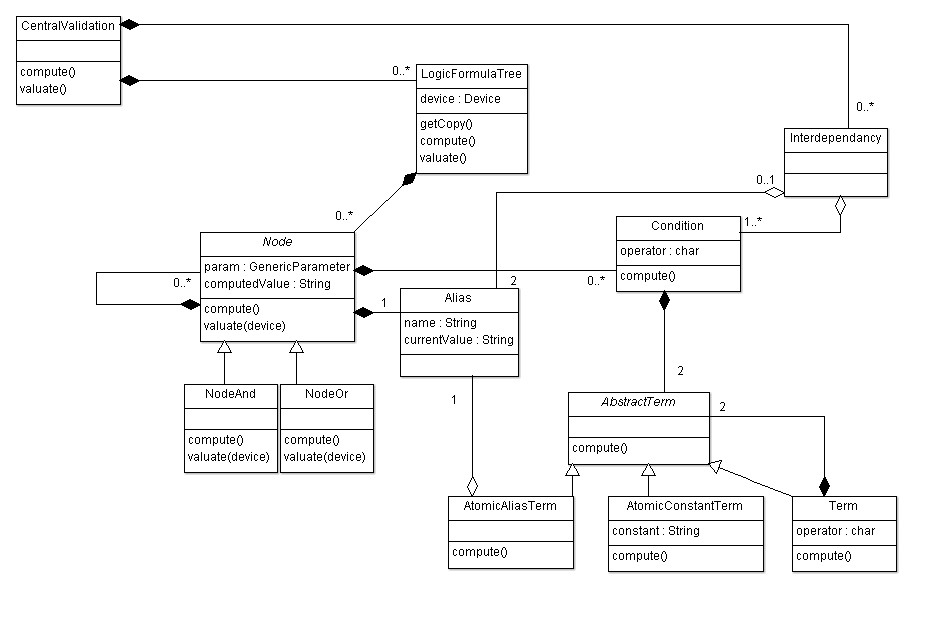
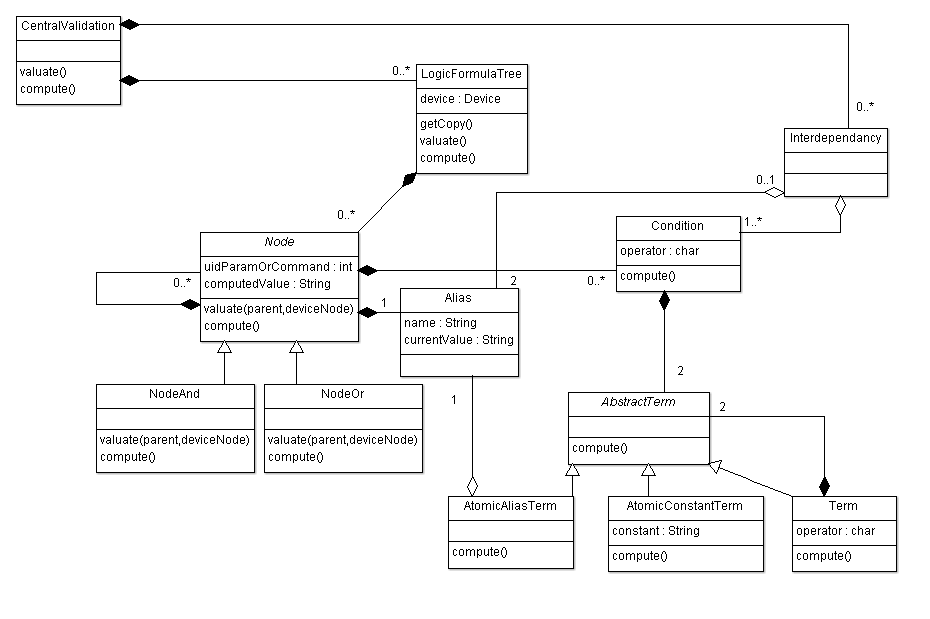
Avancée algo

diff --git a/IOSRef/Term.py b/IOSRef/Term.py
@@ -41,43 +41,96 @@ class SyntaxTerm:
                     self.addAtomicTerm(atomicTerm)
 
         from IOSReference import printLog
-        printLog("Created "+self.toString())
+        printLog("Created "+self.__str__())
 
     def addAtomicTerm(self, atomicTerm):
         if (isinstance(atomicTerm, AtomicTerm)):
             self.atomicTermList.append(atomicTerm)
 
-    def toString(self):
+    def __str__(self):
         return "SyntaxTerm [cardinalityMin="+str(self.cardinalityMin)+", cardinalityMax="+str(self.cardinalityMax)+", number_of_atomic_terms="+str(self.atomicTermList.__len__())+"]"
 
 
 
 class ListOptionItem:
     def __init__(self, xmlNode, value=None):
-        self.value = value
+        if xmlNode==None:
+            self.value = value
+        else:
+            self.value = xmlNode.nodeValue
+
+        from IOSReference import printLog
+        printLog("Created "+self.__str__())
+
+
+    def __str__(self):
+        return "ListOptionItem [value="+str(self.value)+"]"
+
+
 
 
 
 class CiscoParameter(AtomicTerm):
     def __init__(self, xmlNode, name=None, cardinalityMin=None, cardinalityMax=None, description=None, typeParameter=None, genericParameter=None):
-        self.name = name
-        self.cardinalityMin = cardinalityMin
-        self.cardinalityMax = cardinalityMax
-        self.description = description
-        self.typeParameter = typeParameter
-        self.genericParameter = genericParameter
         self.listOptionItemList = []
+
+        if xmlNode==None:
+            self.name = name
+            self.cardinalityMin = cardinalityMin
+            self.cardinalityMax = cardinalityMax
+            self.description = description
+            self.typeParameter = typeParameter
+            self.genericParameter = genericParameter
+        else:
+            self.name = xmlNode.attributes['name'].value
+            self.cardinalityMin = xmlNode.attributes['cardinalityMin'].value
+            self.cardinalityMax = xmlNode.attributes['cardinalityMax'].value
+            self.genericParameter = xmlNode.attributes['guid'].value
+            try:
+                self.description = xmlNode.attributes['description'].value
+                self.typeParameter = xmlNode.attributes['typeParameter'].value
+            except:
+                self.description = ""
+                self.typeParameter = ""
+
+            #load list option items
+            allListOptionItems = xmlNode.getElementsByTagName('ListOptionItem')
+            for node in allListOptionItems:
+                listOptionItem = ListOptionItem(node)
+                self.addListOptionItem(listOptionItem)
+
+        from IOSReference import printLog
+        printLog("Created "+self.__str__())
+
+
 
     def addListOptionItem(self, listOptionItem):
         if (isinstance(listOptionItem, ListOptionItem)):
             self.listOptionItemList.append(listOptionItem)
 
 
+    def __str__(self):
+        return "CiscoParameter [name='"+str(self.name)+"', cardinalityMin="+str(self.cardinalityMin)+", cardinalityMax="+str(self.cardinalityMax)+", description='"+str(self.description)+"', typeParameter='"+str(self.typeParameter)+"', uid_genericParameter="+str(self.genericParameter)+", number_of_listOptionItem="+str(self.listOptionItemList.__len__())+"]"
+
+
+
+
 
 
 class CiscoKeyword(AtomicTerm):
     def __init__(self, xmlNode, word=None):
-        self.word = word
+        if xmlNode==None:
+            self.word = word
+        else:
+            self.word = xmlNode.attributes['word'].value
+
+        from IOSReference import printLog
+        printLog("Created "+self.__str__())
+
+    def __str__(self):
+        return "CiscoKeyword [word="+str(self.word)+"]"
+
+
 
 
 
@@ -86,6 +139,21 @@ class TermOrTerm(AtomicTerm):
     def __init__(self, xmlNode):
         self.syntaxTermList = []
 
+        if xmlNode!=None:
+            #load syntax terms (separated by a "or")
+            allSsyntaxTerm = xmlNode.getElementsByTagName('SyntaxTerm')
+            for node in allSsyntaxTerm:
+                syntaxTerm = SyntaxTerm(node)
+                self.addSyntaxTerm(syntaxTerm)
+
+        from IOSReference import printLog
+        printLog("Created "+self.__str__())
+
+
+
     def addSyntaxTerm(self, syntaxTerm):
         if (isinstance(syntaxTerm, SyntaxTerm)):
             self.syntaxTermList.append(syntaxTerm)
+
+    def __str__(self):
+        return "TermOrTerm [number_of_syntax_terms="+str(self.syntaxTermList.__len__())+"]"

diff --git a/Noeud/Node.py b/Noeud/Node.py
@@ -9,11 +9,11 @@ class Node(object):
     '''
     Node abstrait de l'arbre d'evaluation
     '''
-    def __init__(self, uid, childrens = [], conditions = [], alias = None, computedValue = None):
+    def __init__(self, uidParamOrCommand, childrens = [], conditions = [], alias = None, computedValue = None):
         '''
         Constructeur
         '''
-        self.uidParam = uid
+        self.uidParamOrCommand = uidParamOrCommand
         self.childs = []
         for child in childrens:
             self.childs.append(child)
@@ -35,12 +35,23 @@ class Node(object):
     def updateAlias(self):
         self.alias.setValue(self.computedValue)
 
+    # parent is the parent Node of this node (useful for adding brothers to this node)
+    # deviceNode can be the device itself (if we are at the level of the root) or a DeviceCommand, or a DeviceParameter
+    # this fonction browses the elements under the deviceNode, looking for uids matching this 'uidParamOrCommand'
+    def valuate(self, parent, deviceNode):
+        if (isinstance(deviceNode, Device)):
+            None
+        elif (isinstance(deviceNode, DeviceCommand)):
+            None
+        elif (isinstance(deviceNode, DeviceParameter)):
+            None
+
     def __str__(self):
-        return "Node: uid:" + str(self.uidParam)
+        return "Node: uidParamOrCommand:" + str(self.uidParamOrCommand)
 
 class NodeAnd(Node):
-    def __init__(self, uid, childrens = [], conditions = [], alias = None):
-        Node.__init__(self, uid, childrens, conditions, alias)
+    def __init__(self, uidParamOrCommand, childrens = [], conditions = [], alias = None):
+        Node.__init__(self, uidParamOrCommand, childrens, conditions, alias)
 
     def compute(self):
         Node.updateAlias(self)
@@ -54,11 +65,11 @@ class NodeAnd(Node):
         return result
 
     def __str__(self):
-        return "NodeAnd: uid:" + str(self.uidParam)
+        return "NodeAnd: uidParamOrCommand:" + str(self.uidParamOrCommand)
 
 class NodeOr(Node):
-    def __init__(self, uid, childrens, conditions = [], alias = None):
-        Node.__init__(self, uid, childrens, conditions, alias)
+    def __init__(self, uidParamOrCommand, childrens, conditions = [], alias = None):
+        Node.__init__(self, uidParamOrCommand, childrens, conditions, alias)
 
     def compute(self):
         Node.updateAlias(self)
@@ -73,7 +84,7 @@ class NodeOr(Node):
         return result
 
     def __str__(self):
-        return "NodeOr: uid:" + str(self.uidParam)
+        return "NodeOr: uidParamOrCommand:" + str(self.uidParamOrCommand)
 
 class Alias(object):
     '''
@@ -248,14 +259,14 @@ class CentralValidation(object):
         return affichage
 
 class LogicFormulaTree(object):
-    
+
     def __init__(self, central, nodes = [], device):
         self.central = central
         self.nodes = []
         for node in nodes:
             self.nodes.append(node)
         self.device = device
-        
+
     def valuate(self):
         print "Valuation de l'arbre"
         #TODO: valuer l'arbre avec les valeurs des parametres du device

diff --git a/IOSRef/GenericCommand.py b/IOSRef/GenericCommand.py
@@ -24,10 +24,10 @@ class AuxiliarCommand:
             self.genericCommandNeeded = xmlNode.attributes['guid'].value
 
         from IOSReference import printLog
-        printLog("Created "+self.toString())
+        printLog("Created "+self.__str__())
 
 
-    def toString(self):
+    def __str__(self):
         return "AuxiliarCommand [versionMin="+str(self.versionMin)+", versionMax="+str(self.versionMax)+", uid_genericCommandNeeded="+str(self.genericCommandNeeded)+"]"
 
 
@@ -46,10 +46,10 @@ class GenericParameter:
             self.name = xmlNode.attributes['name'].value
 
         from IOSReference import printLog
-        printLog("Created "+self.toString())
+        printLog("Created "+self.__str__())
 
 
-    def toString(self):
+    def __str__(self):
         return "GenericParameter [uid="+str(self.uid)+", name='"+str(self.name)+"']"
 
 
@@ -85,7 +85,7 @@ class GenericCommand:
                 self.addAuxiliarCommand(auxiliarCommand)
 
         from IOSReference import printLog
-        printLog("Created "+self.toString())
+        printLog("Created "+self.__str__())
 
 
     def addCiscoCommandsVersion(self, ciscoCommandsVersion):
@@ -100,5 +100,5 @@ class GenericCommand:
         if (isinstance(genericParameter, GenericParameter)):
             self.genericParameterList.append(genericParameter)
 
-    def toString(self):
-        return "GenericCommand [uid="+str(self.uid)+", name='"+str(self.genericName)+"']"
+    def __str__(self):
+        return "GenericCommand [uid="+str(self.uid)+", name='"+str(self.genericName)+"', number_of_cisco_commands_versions="+str(self.ciscoCommandsVersionList.__len__())+", number_of_generic_parameters="+str(self.genericParameterList.__len__())+", number_of_auxiliar_commands="+str(self.auxiliarCommandList.__len__())+"]"

diff --git a/IOSRef/CiscoCommandsVersion.py b/IOSRef/CiscoCommandsVersion.py
@@ -30,15 +30,15 @@ class CiscoCommandsVersion:
                 self.addCiscoSyntax(ciscoSyntax)
 
         from IOSReference import printLog
-        printLog("Created "+self.toString())
+        printLog("Created "+self.__str__())
 
 
     def addCiscoSyntax(self, ciscoSyntax):
         if (isinstance(ciscoSyntax, CiscoSyntax)):
             self.ciscoSyntaxList.append(ciscoSyntax)
 
-    def toString(self):
-        return "CiscoCommandsVersion [versionMin="+str(self.versionMin)+", versionMax="+str(self.versionMax)+", deviceType="+str(self.deviceType)+"]"
+    def __str__(self):
+        return "CiscoCommandsVersion [versionMin="+str(self.versionMin)+", versionMax="+str(self.versionMax)+", deviceType="+str(self.deviceType)+", number_of_cisco_syntaxes="+str(self.ciscoSyntaxList.__len__())+"]"
 
 
 
@@ -56,11 +56,11 @@ class CiscoSyntax:
                 self.addSyntaxTerm(syntaxTerm)
 
         from IOSReference import printLog
-        printLog("Created "+self.toString())
+        printLog("Created "+self.__str__())
 
     def addSyntaxTerm(self, syntaxTerm):
         if (isinstance(syntaxTerm, SyntaxTerm)):
             self.syntaxTermList.append(syntaxTerm)
 
-    def toString(self):
+    def __str__(self):
         return "CiscoSyntax [negatable="+str(self.negatable)+", number_of_syntax_terms="+str(self.syntaxTermList.__len__())+"]"

diff --git a/IOSRef/IOSReference.py b/IOSRef/IOSReference.py
@@ -33,13 +33,13 @@ class IOSReference:
             genericCommand = GenericCommand(node)
             self.addGenericCommand(genericCommand)
 
-        printLog("Successfully loaded "+self.toString())
+        printLog("Successfully loaded "+self.__str__())
 
 
     def addGenericCommand(self, genericCommand):
         if (isinstance(genericCommand, GenericCommand)):
             self.genericCommandList.append(genericCommand)
 
-    def toString(self):
+    def __str__(self):
         return "IOSReference [lastUpdate="+str(self.lastUpdate)+", number_of_generic_commands="+str(self.genericCommandList.__len__())+"]"
 

diff --git a/Noeud/Main.py b/Noeud/Main.py
@@ -51,8 +51,8 @@ def main():
     node5 = Node(uid_c, [], [], aliasZ)            #neutral
     node4 = Node(uid_b, [], [condition1], aliasY)  #neutral
     node3 = NodeOr(uid_a, [node4], [], aliasX)
-    node2 = NodeAnd(0, [node5], [], None)
-    node1 = NodeAnd(0, [node3], [], None)
+    node2 = NodeAnd(0, [node5], [], None)           #no conditions and no aliases
+    node1 = NodeAnd(0, [node3], [], None)           #no conditions and no aliases
 
     #interdependancy between nodes 4 and 5
     interdep = Interdependancy([aliasY, aliasZ], [condition2])
